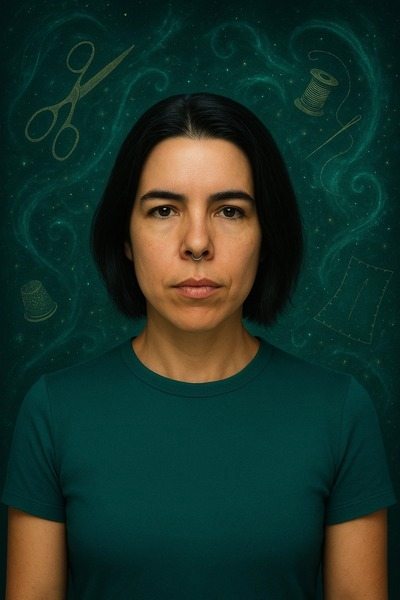
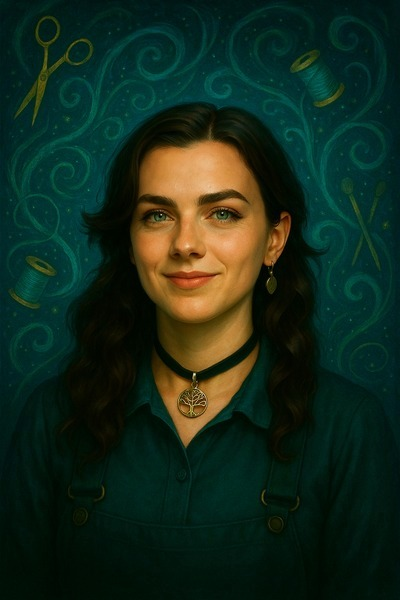
Fix: Anubis Leal (rulos auburn/nose ring); Alina Kramarenko pending photo

diff --git a/index.html b/index.html
@@ -444,9 +444,9 @@
                     <p class="member-role">Maquillaje</p>
                 </div>
                 <div class="team-member">
-                    <img src="images/elenco/alina-kramarenko.jpg" alt="Alina Kramarenko" loading="lazy">
-                    <h3>Alina Kramarenko</h3>
-                    <p class="member-role">Realización Vestuario & Maquillaje</p>
+                    <img src="images/elenco/anubis-leal.jpg" alt="Anubis Leal" loading="lazy">
+                    <h3>Anubis Leal</h3>
+                    <p class="member-role">Realización Vestuario</p>
                 </div>
                 <div class="team-member">
                     <img src="images/elenco/emiliana-texeira-nunez.jpg" alt="Emiliana Texeira Núñez" loading="lazy">
